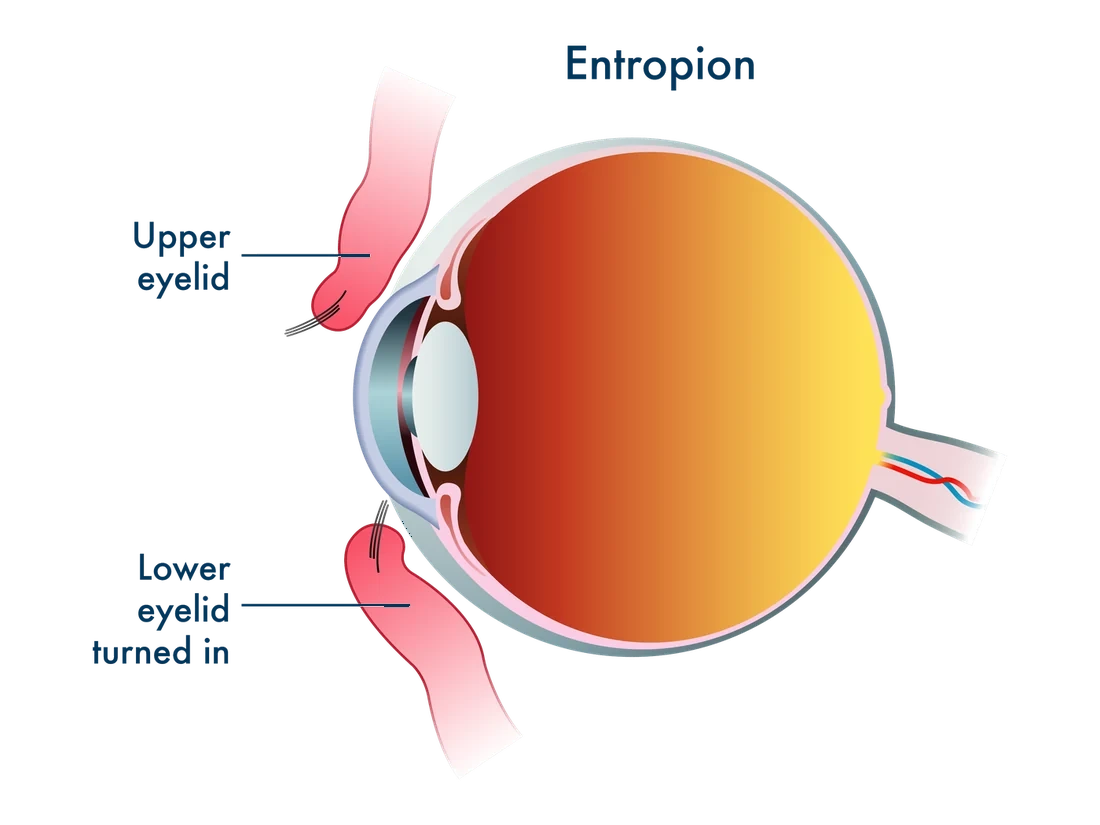
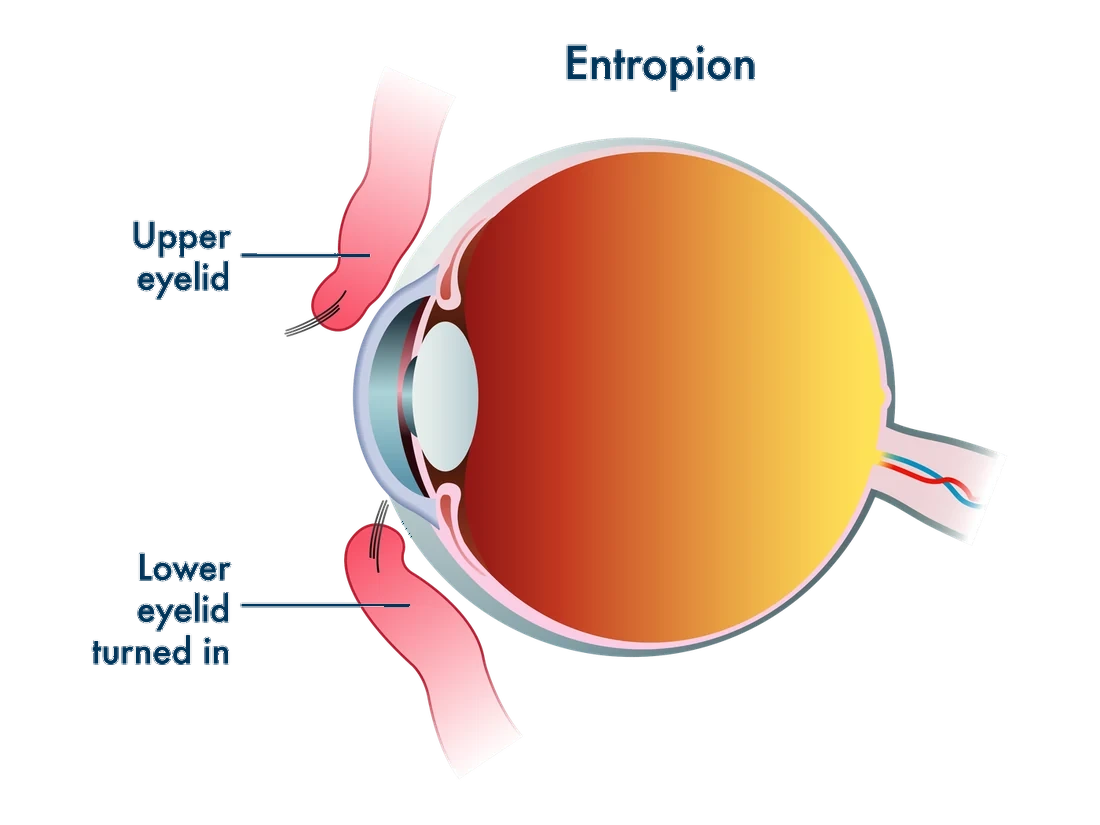
Diagram without a card, labels set heavier

diff --git a/index.html b/index.html
@@ -68,15 +68,15 @@
       href="https://res.cloudinary.com/dsjbq35es/image/upload/a_hflip,f_auto,q_auto,w_1800/v1789670206/shutterstock_2587017403_xznaag.jpg">
 <!-- Order matters: motion.css last so it can switch everything off.
      Bump ?v= on every deploy that touches CSS or JS. -->
-<link rel="stylesheet" href="css/fonts.css?v=11">
-<link rel="stylesheet" href="css/tokens.css?v=11">
-<link rel="stylesheet" href="css/base.css?v=11">
-<link rel="stylesheet" href="css/components.css?v=11">
-<link rel="stylesheet" href="css/sections.css?v=11">
-<link rel="stylesheet" href="css/type.css?v=11">
-<link rel="stylesheet" href="css/motion.css?v=11">
+<link rel="stylesheet" href="css/fonts.css?v=12">
+<link rel="stylesheet" href="css/tokens.css?v=12">
+<link rel="stylesheet" href="css/base.css?v=12">
+<link rel="stylesheet" href="css/components.css?v=12">
+<link rel="stylesheet" href="css/sections.css?v=12">
+<link rel="stylesheet" href="css/type.css?v=12">
+<link rel="stylesheet" href="css/motion.css?v=12">
 
-<script src="js/main.js?v=11" defer></script>
+<script src="js/main.js?v=12" defer></script>
 </head>
 <body>
 
@@ -184,7 +184,7 @@
             <p>Because entropion can affect the cornea, persistent symptoms should be evaluated by an ophthalmologist. <strong class="hl">Entropion repair</strong> may be recommended to correct the eyelid position.</p>
           </div>
         </div>
-        <figure class="glass" data-reveal>
+        <figure class="diagram-plain" data-reveal>
           <img src="images/entropion-diagram-light.webp" width="1100" height="825" loading="lazy"
                alt="Cross-section of an eye showing the lower eyelid turned inward toward the eye, with the upper eyelid and inward-turned lower eyelid labeled.">
         </figure>

diff --git a/css/components.css b/css/components.css
@@ -710,26 +710,14 @@
 #main .trust__desc { color: var(--on-dark-soft); font-weight: 400; }
 
 /* --------------------------------------------------------------------------
-   The diagram, on glass
-   On the frame's solid navy the illustration read as a heavy block. It now
-   sits on a light frosted card lifted by its shadow alone. The diagram's
-   labels were white, drawn into the image, so this page uses a copy
-   recoloured to the brand navy (entropion-diagram-light.webp).
-
-   An exception to the guide's no-glass rule, made at the client's request
-   and kept to this one object.
+   The diagram, on the page itself
+   On the frame's solid navy the illustration read as a heavy block, so it
+   now stands on the white band with no frame at all. Its labels were white,
+   drawn into the image, so this page uses a copy recoloured to the brand
+   navy and set a little heavier (entropion-diagram-light.webp).
    -------------------------------------------------------------------------- */
 
-.glass {
-  border-radius: var(--r-lg);
-  padding: var(--s-4);
-  background: rgb(255 255 255 / .55);
-  border: 1px solid rgb(255 255 255 / .8);
-  box-shadow: var(--shadow-md);
-  -webkit-backdrop-filter: blur(24px) saturate(1.2);
-  backdrop-filter: blur(24px) saturate(1.2);
-}
-.glass img { inline-size: 100%; block-size: auto; }
+.diagram-plain img { inline-size: 100%; block-size: auto; }
 
 /* --------------------------------------------------------------------------
    Ruled lists — the .fit list, extended. A dot marks an item that is a fact
